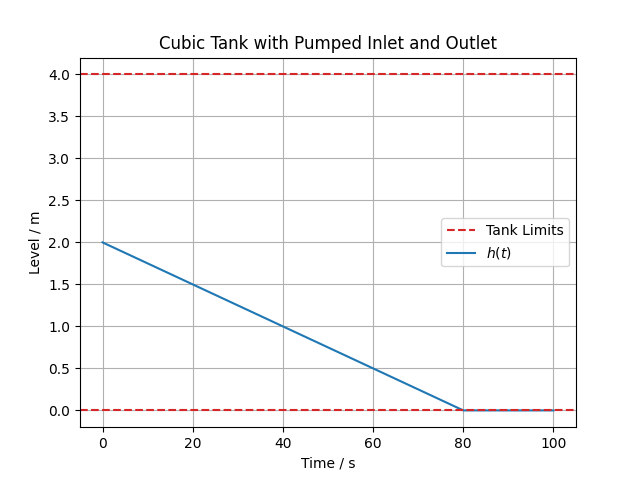
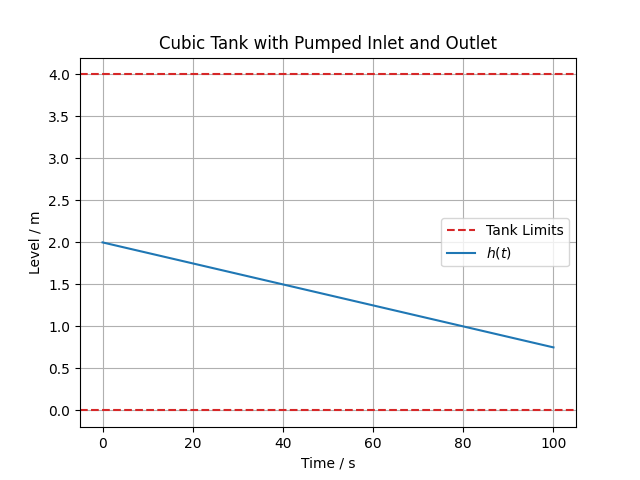
Fix some issues with cubic-pump-controlled tank model

diff --git a/models/tanks/cubic-pump-controlled/sim_scipy.py b/models/tanks/cubic-pump-controlled/sim_scipy.py
@@ -13,28 +13,30 @@ A: Final[float] = L**2
 """Cross-sectional area [m^2]"""
 
 
-# --- Tank dynamics ---
+# --- Tank Dynamics ---
 def tank_model(t: float, h: float, Q_in: float, Q_out: float):
     """
     Differential equation for the tank level.
 
     Parameters:
-    - h: liquid level [m]
     - t: time [s]
+    - h: liquid level [m]
     - Q_in: inlet flow [m^3/s]
     - Q_out: outlet flow [m^3/s]
     """
     dhdt = (Q_in - Q_out) / A
-
     return dhdt
 
 
 # --- Model Parameters ---
-Q_in = 0.3  # Inlet flow rate [m^3/s]
-Q_out = 0.7  # Outlet flow rate [m^3/s]
+Q_in = 0.3
+"""Inlet flow rate [m^3/s]"""
+
+Q_out = 0.5
+"""Outlet flow rate [m^3/s]"""
 
 # --- Simulation ---
-h0 = 2  # Initial liquid level [m]
+h0 = 2  # Initial level [m]
 t = np.linspace(0, 100, 1000)  # Simulation time [s]
 sol = solve_ivp(tank_model, [t[0], t[-1]], [h0], t_eval=t, args=(Q_in, Q_out))
 

diff --git a/models/tanks/cubic-pump-controlled/README.md b/models/tanks/cubic-pump-controlled/README.md
@@ -7,9 +7,7 @@ This section describes the model representing the physical system composed of a 
 The liquid level inside the tank changes according to the balance between the inflow and outflow rates.
 The physical system is illustrated in the figure below:
 
-<p align="center">
-  <img src="diagram.svg" alt="Modelted Tank Diagram"/>
-</p>
+<img src="diagram.svg" alt="Modeled Tank Diagram"/>
 
 The liquid level dynamics can be mathematically described by the following equation:
 
